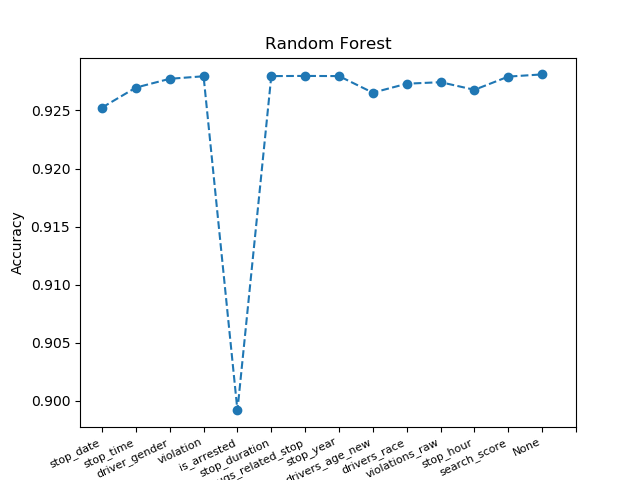
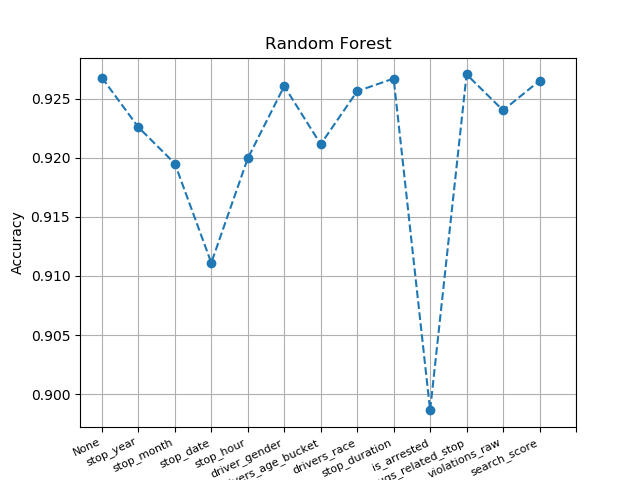
update random_forest
reran method based off of jayasurya's preprocessing changes removed the
redundant call to rerun the model for no columns removed

diff --git a/project.py b/project.py
@@ -262,11 +262,14 @@ def random_forest(X_train, X_test, y_train, y_test, df_clean):
 	# param_grid = {'n_estimators': [50,75,100,150,200,250,300,350,400,450,500],
 	# 			'max_depth': [None,1,2,3,4,5,10,20,30,50,75,100,150]
 	# 			}
-	param_grid = {'n_estimators': [200],'max_depth': [None]}			
-
+	param_grid = {'n_estimators': [250],'max_depth': [None]}
+	dict = {}
+		
 	# Create the GridSearch object for the Random Forest classifier passing the parameters
 	grid_search = GridSearchCV(RandomForestClassifier(n_jobs= -1, class_weight="balanced", random_state=0), 
 							param_grid, cv=5)
+
+	print("Removing no columns")
 
 	# Fit data to the model -- cross validation will be performed during grid search
 	grid_search.fit(X_train, y_train)
@@ -277,8 +280,10 @@ def random_forest(X_train, X_test, y_train, y_test, df_clean):
 	print("Best estimator:\n{}".format(grid_search.best_estimator_))
 	print("Test set score: {:.2f}".format(grid_search.score(X_test, y_test)))
 
+	# Store accuracy for no columns removed
+	dict['None'] = grid_search.best_score_
+
 	# Find out which column is most impactful in predicting stop_outcome
-	dict = {}
 	y = df_clean["stop_outcome"].copy()
 	df_clean = df_clean.drop(columns=['stop_outcome'])
 
@@ -293,16 +298,7 @@ def random_forest(X_train, X_test, y_train, y_test, df_clean):
 		grid_search.fit(X_train, y_train)
 		dict[c] = grid_search.best_score_
 
-	# Same for removing no columns
-	x_t = pd.get_dummies(df_clean)
-	X_train, X_test, y_train, y_test = train_test_split(x_t, y, test_size=0.2, random_state=0)
-	print("Removing no columns")
-	grid_search = GridSearchCV(RandomForestClassifier(n_jobs= -1, class_weight="balanced", random_state=0), 
-							param_grid, cv=5)
-	grid_search.fit(X_train, y_train)
-	dict['None'] = grid_search.best_score_
-
-	print(dict)
+	print("Results:\n", dict)
 	print("Random Forest Completed")
 
 	# Return the results
@@ -318,6 +314,7 @@ def random_forest_visualizaton(random_forest):
 
 	plt.title('Random Forest')
 	plt.xlabel('Columns Removed')
+	plt.grid(True)
 	plt.ylabel('Accuracy')
 	plt.savefig('random_forest.png')
 
@@ -404,18 +401,17 @@ if __name__ == "__main__":
 
 	# Random Forest
 	# Commented out since still a work in progress
-	# print ("random_forest")
 	# random_forest_results = random_forest(X_train, X_test, y_train, y_test, dataframe)
 
 	# Results from running random forest (so you don't have to run the method)
 	# Comment out this line if you decide to run the random_forest method and get the accuracies from there
-	# random_forest_results = {'stop_date': 0.9252461904188284, 'stop_time': 0.926964979960656, 
-	# 						'driver_gender': 0.9277224305128671, 'violation': 0.9279409184792622, 
-	# 						'is_arrested': 0.899187219333417, 'stop_duration': 0.9279554946693738, 
-	# 						'drugs_related_stop': 0.9279700602509047, 'stop_year': 0.9279555020953805, 
-	# 						'drivers_age_new': 0.9265279859932785, 'drivers_race': 0.927300020161608, 
-	# 						'violations_raw': 0.9274311019085207, 'stop_hour': 0.9267756401310521,
-	# 						'search_score': 0.9279117989856394, 'None': 0.9281011579106888}
+	# random_forest_results = {'stop_year': 0.9225951283381028, 'stop_month': 0.9195216378715305, 
+								# 'stop_date': 0.9111169567927885, 'stop_hour': 0.919958632899766, 
+								# 'driver_gender': 0.9260764349312349, 'drivers_age_bucket': 0.9211530328633148, 
+								# 'drivers_race': 0.9256394908241876, 'stop_duration': 0.9267173438574698, 
+								# 'is_arrested': 0.8986191255845395, 'drugs_related_stop': 0.92706694009223, 
+								# 'violations_raw': 0.9240226264056173, 'search_score': 0.9265280072104403, 
+								# 'None': 0.9267901887388534}
 	# Displaying results from running random forest
 	# random_forest_visualizaton(random_forest_results)
 
